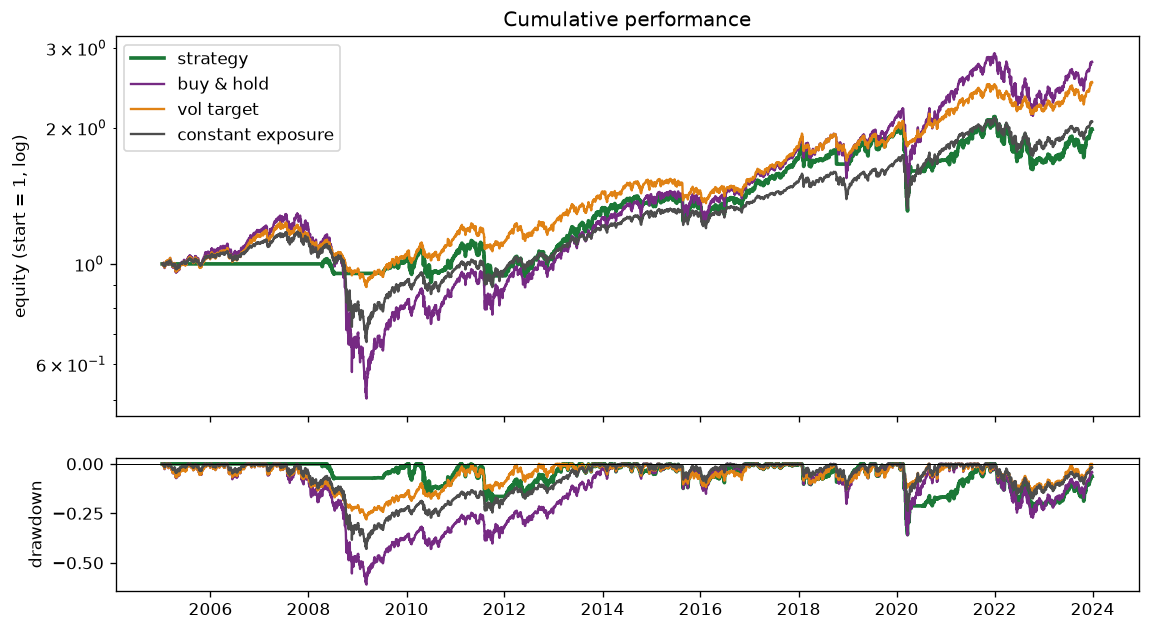
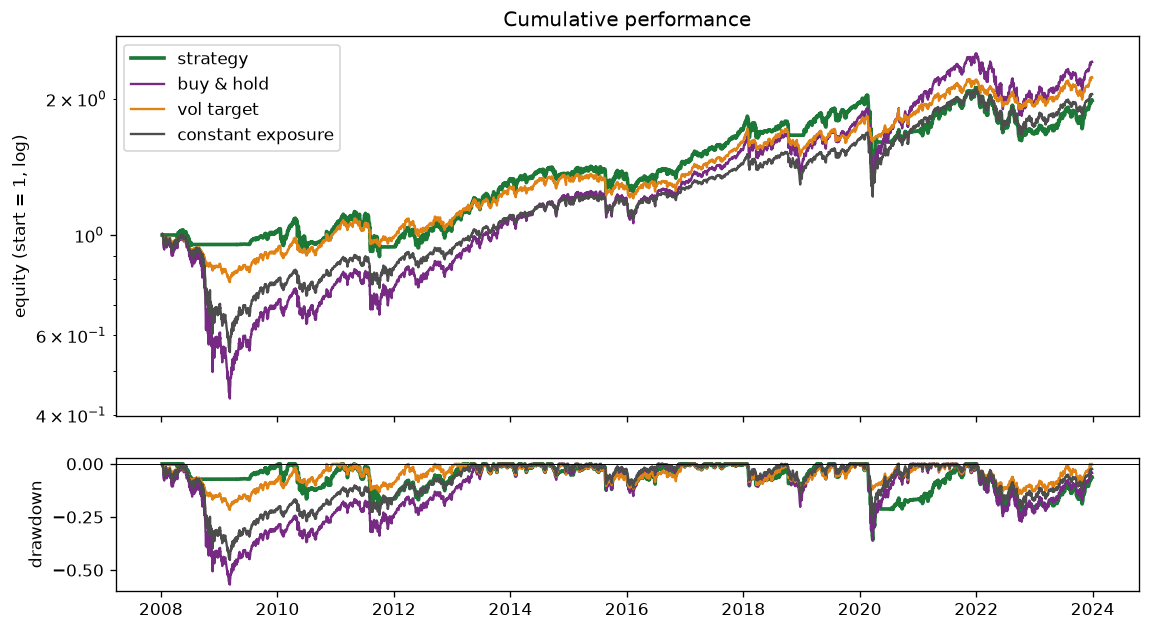
Evaluate the walk-forward comparison from the first refit date; retitle README
Compute the strategy and all three benchmarks only from the first refit
date onwards (2008-01-09 for the default US run), so the benchmarks are
no longer credited with the three-year training window in which the
strategy cannot hold a position. The report and the pipeline's return
value state the evaluation period explicitly.

Replace the xfail on the statsmodels cross-check with importorskip, so a
normal run reports a plain pass or skip instead of xpassed.

Retitle the README and refresh every number and the equity-curve figure
from a new end-to-end run; drop the limitation that the evaluation
window change resolves.

diff --git a/scripts/run_analysis.py b/scripts/run_analysis.py
@@ -135,11 +135,15 @@ def run_pipeline(
 ) -> dict:
     """Run steps 2-7 on an already-built database. Deterministic given ``seed``.
 
+    The walk-forward comparison (strategy and all benchmarks) is evaluated only
+    from the first refit date onwards, i.e. from observation ``train_window``.
+
     Returns
     -------
     dict
         ``summary_table`` (the strategy-vs-benchmark comparison), ``bic`` (dict
-        K -> BIC), ``chain`` (analytics dict), and ``model`` (the fitted HMM).
+        K -> BIC), ``chain`` (analytics dict), ``model`` (the fitted HMM), and
+        ``eval_period`` (``(first_date, last_date, n_obs)`` of the comparison).
     """
     feats = engineer_features(db_path, market=market, vol_window=vol_window, z_window=z_window)
     log_returns = feats["log_return"].to_numpy()
@@ -173,11 +177,21 @@ def run_pipeline(
         refit_every=refit_every, n_init=n_init, random_state=seed,
     )
     prob_cols = [f"p_state_{k}" for k in range(n_states)]
-    strat = regime_strategy(feats, wf[prob_cols], mode="probability")
+    # Fair comparison: evaluate the strategy AND every benchmark only from the
+    # first refit date onwards. Before that date the strategy cannot hold a
+    # position (no model has been fitted yet), so including the warm-up would
+    # credit the benchmarks with a period in which the strategy is not allowed
+    # to compete. All rolling features are causal, so slicing rows is enough.
+    eval_start = train_window
+    eval_feats = feats.iloc[eval_start:]
+    eval_returns = log_returns[eval_start:]
+    eval_wf = wf.iloc[eval_start:]
+    strat = regime_strategy(eval_feats, eval_wf[prob_cols], mode="probability")
     bench = benchmarks(
-        log_returns, feats, avg_exposure=float(strat["position"].mean())
+        eval_returns, eval_feats, avg_exposure=float(strat["position"].mean())
     )
     table = compare(strat, bench, periods_per_year=periods_per_year)
+    eval_period = (eval_feats.index.min(), eval_feats.index.max(), len(eval_feats))
 
     # 6. figures + results CSV
     outdir = Path(outdir)
@@ -207,7 +221,7 @@ def run_pipeline(
                     "vol target": bench["vol_target"].to_numpy(),
                     "constant exposure": bench["constant_exposure"].to_numpy(),
                 },
-                dates=wf.index.to_numpy(),
+                dates=eval_wf.index.to_numpy(),
             ),
             figdir / "equity_curves.png",
         )
@@ -217,10 +231,18 @@ def run_pipeline(
         )
 
     # 7. report
-    report = format_report(market, feats, model, chain_stats, bic, best_k, table)
+    report = format_report(
+        market, feats, model, chain_stats, bic, best_k, table, eval_period
+    )
     logger.info("\n%s", report)
 
-    return {"summary_table": table, "bic": bic, "chain": chain_stats, "model": model}
+    return {
+        "summary_table": table,
+        "bic": bic,
+        "chain": chain_stats,
+        "model": model,
+        "eval_period": eval_period,
+    }
 
 
 def _save(fig, path: Path) -> None:
@@ -228,7 +250,7 @@ def _save(fig, path: Path) -> None:
     plt.close(fig)
 
 
-def format_report(market, feats, model, chain_stats, bic, best_k, table) -> str:
+def format_report(market, feats, model, chain_stats, bic, best_k, table, eval_period) -> str:
     """A short, plain-text summary of the run."""
     lines = [
         "=" * 70,
@@ -252,7 +274,9 @@ def format_report(market, feats, model, chain_stats, bic, best_k, table) -> str:
         "BIC by K: " + ", ".join(f"K={k}:{v:.0f}" for k, v in bic.items())
         + f"  => selects K={best_k}",
         "",
-        "Walk-forward strategy vs benchmarks (net of costs):",
+        "Walk-forward strategy vs benchmarks (net of costs), evaluated from the",
+        f"first refit date: {eval_period[0]} .. {eval_period[1]} "
+        f"({eval_period[2]} observations):",
     ]
     for col in table.columns:
         row = table[col]

diff --git a/tests/test_estimation.py b/tests/test_estimation.py
@@ -126,9 +126,8 @@ def test_variance_floor_prevents_blowup():
 # --------------------------------------------------------------------------- #
 # cross-check
 # --------------------------------------------------------------------------- #
-@pytest.mark.xfail(raises=ImportError, reason="statsmodels not installed")
 def test_cross_check_loglik_vs_statsmodels():
-    import statsmodels.api as sm
+    sm = pytest.importorskip("statsmodels.api")
 
     x, _ = _simulate(
         4000, [0.0005, -0.001], [0.008, 0.025], [[0.98, 0.02], [0.06, 0.94]], seed=5

diff --git a/README.md b/README.md
@@ -1,14 +1,14 @@
-# regime_switching
+# Market regime detection with a hidden Markov model
 
 [![CI](https://github.com/tommasopongiluppi/regime-switching-hmm/actions/workflows/ci.yml/badge.svg)](https://github.com/tommasopongiluppi/regime-switching-hmm/actions/workflows/ci.yml)
 
-Markov regime-switching analysis of daily equity index returns with a Gaussian hidden Markov model, implemented from scratch in NumPy and SciPy.
+Markov regime-switching analysis of daily equity index returns with a Gaussian hidden Markov model, implemented from scratch in NumPy and SciPy. The Python package is `regime_switching`.
 
 ## Summary
 
 This project fits a two-state Gaussian hidden Markov model (HMM) to daily log returns of the S&P 500 and asks two questions: what regimes does the model find, and does knowing the regime in real time help a simple trading rule. The forward-backward recursions, Viterbi decoding, Baum-Welch estimation and Markov chain analytics are written in NumPy and SciPy. No HMM library is used inside the package. A test suite checks the inference code against brute-force enumeration of every state path, and checks the estimator against simulated data with known parameters and against statsmodels.
 
-On 4,778 trading days from 2005-01-06 to 2023-12-29 the model separates a calm regime (daily standard deviation 0.0067, positive mean) from a turbulent one (daily standard deviation 0.0206, negative mean). In a walk-forward backtest, a rule that scales exposure by the filtered probability of the calm regime earns a Sharpe ratio of 0.34 net of costs, against 0.53 for a volatility-targeting benchmark and 0.38 for buy and hold. None of the Sharpe differences is statistically distinguishable from zero at conventional levels. On this sample the regime model does not add anything over inverse-volatility scaling, and that is the result reported here.
+On 4,778 trading days from 2005-01-06 to 2023-12-29 the model separates a calm regime (daily standard deviation 0.0067, positive mean) from a turbulent one (daily standard deviation 0.0206, negative mean). In a walk-forward backtest evaluated from 2008-01-09 onwards, a rule that scales exposure by the filtered probability of the calm regime earns a Sharpe ratio of 0.37 net of costs, against 0.54 for a volatility-targeting benchmark and 0.37 for buy and hold. None of the Sharpe differences is statistically distinguishable from zero at conventional levels. On this sample the regime model does not add anything over inverse-volatility scaling, and that is the result reported here.
 
 ## Model
 
@@ -57,7 +57,7 @@ Prices come from Yahoo Finance through yfinance and are cached to parquet per ti
 
 The backtest refits the model on an expanding window every 63 trading days, starting once 756 observations (about three years) are available, which gave 64 refits here. At each refit the filtered probability at the last available close is held fixed for the following block. The position applied to the return of day t is the signal formed at the close of day t - 1. This one-day shift is enforced by an assertion in the code, and a test checks that the position column equals the lagged signal exactly. Exposure equals the held probability of the calm regime, capped at one, and transaction costs of 5 basis points are charged on every unit of turnover.
 
-Three benchmarks are computed net of the same costs: buy and hold; volatility targeting, where exposure is 10% annualised divided by trailing 21-day realised volatility, capped at one and lagged one day; and a constant exposure equal to the strategy's average exposure, which separates the timing of the strategy from its average leverage. The comparison table reports standard performance statistics and the Jobson-Korkie test with Memmel's correction for the difference between the strategy's Sharpe ratio and each benchmark's. That test accounts for the correlation between the two return series.
+Three benchmarks are computed net of the same costs: buy and hold; volatility targeting, where exposure is 10% annualised divided by trailing 21-day realised volatility, capped at one and lagged one day; and a constant exposure equal to the strategy's average exposure, which separates the timing of the strategy from its average leverage. The comparison table reports standard performance statistics and the Jobson-Korkie test with Memmel's correction for the difference between the strategy's Sharpe ratio and each benchmark's. That test accounts for the correlation between the two return series. The strategy and all three benchmarks are evaluated over the same window, from the first refit date onwards, so the benchmarks are not credited with the warm-up period in which the strategy cannot yet hold a position.
 
 ## Verification
 
@@ -115,7 +115,7 @@ Four long-running tests (the three heaviest estimation tests and the end-to-end 
 
 ## Results
 
-All numbers below come from one run of `scripts/run_analysis.py` on 2026-11-03 with default settings: S&P 500 (^GSPC) and VIX (^VIX) from Yahoo Finance, 2005-01-06 to 2023-12-29, 4,778 daily log returns after the feature warm-up, seed 20260721, 10 EM starts per fit. The run took 49 minutes on a laptop. Yahoo may revise historical prices, so a later download can differ slightly.
+All numbers below come from one run of `scripts/run_analysis.py` on 2026-11-03 with default settings: S&P 500 (^GSPC) and VIX (^VIX) from Yahoo Finance, 2005-01-06 to 2023-12-29, 4,778 daily log returns after the feature warm-up, seed 20260721, 10 EM starts per fit. The run took 59 minutes on a laptop. Yahoo may revise historical prices, so a later download can differ slightly.
 
 ### Fitted two-state model
 
@@ -151,41 +151,41 @@ The figure shows the S&P 500 level with red shading whose opacity is the filtere
 
 ### Walk-forward results versus the benchmarks
 
-All series are net of 5 basis points per unit of turnover and cover the full 4,778-day sample. The strategy holds no position during the first 756 days while the first training window accumulates. The constant-exposure benchmark is buy and hold scaled to the strategy's average exposure of 0.62, so its Sharpe ratio equals buy and hold's by construction.
+All four series are net of 5 basis points per unit of turnover and are evaluated over the same period, from the first refit date 2008-01-09 to 2023-12-29 (4,022 trading days). The 756 days before the first refit are the training window for the first model fit and are excluded for every series. The constant-exposure benchmark is buy and hold scaled to the strategy's average exposure of 0.74, so its Sharpe ratio equals buy and hold's by construction.
 
 | | Strategy | Buy and hold | Vol target | Constant exposure |
 | --- | ---: | ---: | ---: | ---: |
-| CAGR | +3.68% | +5.57% | +4.99% | +3.90% |
-| Annualised vol | 13.0% | 19.5% | 10.2% | 12.1% |
-| Sharpe | 0.34 | 0.38 | 0.53 | 0.38 |
-| Sortino | 0.46 | 0.52 | 0.72 | 0.52 |
-| Max drawdown | -35.7% | -61.0% | -28.1% | -43.0% |
-| Calmar | 0.10 | 0.09 | 0.18 | 0.09 |
-| Hit rate | 45.5% | 54.4% | 54.2% | 54.4% |
-| Skew | -1.13 | -0.52 | -0.63 | -0.52 |
-| Excess kurtosis | 30.7 | 12.9 | 2.1 | 12.9 |
-| JK-Memmel z vs strategy | | -0.19 | -1.10 | -0.19 |
-| JK-Memmel p-value | | 0.848 | 0.270 | 0.848 |
+| CAGR | +4.39% | +5.67% | +5.15% | +4.59% |
+| Annualised vol | 14.2% | 20.5% | 10.2% | 15.2% |
+| Sharpe | 0.37 | 0.37 | 0.54 | 0.37 |
+| Sortino | 0.51 | 0.51 | 0.74 | 0.51 |
+| Max drawdown | -35.7% | -56.8% | -21.7% | -45.2% |
+| Calmar | 0.12 | 0.10 | 0.24 | 0.10 |
+| Hit rate | 54.0% | 54.1% | 53.9% | 54.1% |
+| Skew | -1.05 | -0.52 | -0.64 | -0.52 |
+| Excess kurtosis | 25.4 | 12.2 | 2.2 | 12.2 |
+| JK-Memmel z vs strategy | | +0.01 | -1.02 | +0.01 |
+| JK-Memmel p-value | | 0.990 | 0.307 | 0.990 |
 
 ![Cumulative performance and drawdowns of the strategy and the three benchmarks](docs/us_equity_curves.png)
 
 What the table says:
 
-- The volatility-targeting benchmark has the highest Sharpe ratio (0.53) and the smallest maximum drawdown (-28.1%). The regime strategy has the lowest Sharpe ratio of the four (0.34).
-- The strategy's drawdown (-35.7%) is smaller than buy and hold's (-61.0%) and the constant-exposure benchmark's (-43.0%), because it was mostly out of the market in 2008 and 2009. The equity figure shows it flat until early 2008 and then largely flat through the crash.
-- The Sharpe difference against volatility targeting has a p-value of 0.270 and against buy and hold 0.848. Neither comes close to rejecting equal Sharpe ratios, so the honest statement is that the strategy is not distinguishable from the benchmarks on this sample, and the point estimates favour volatility targeting.
-- The strategy's excess kurtosis (30.7) is far above the benchmarks'. The equity figure shows why: it was largely invested going into the February to March 2020 fall and took most of that loss in a few days, while the volatility-targeting benchmark cut exposure as realised volatility rose and lost less.
+- The volatility-targeting benchmark has the highest Sharpe ratio (0.54) and the smallest maximum drawdown (-21.7%). The regime strategy's Sharpe ratio (0.37) is level with buy and hold and constant exposure (0.37); the Jobson-Korkie-Memmel test against buy and hold gives z = +0.01, p = 0.990.
+- The Sharpe difference against volatility targeting has p = 0.307. Neither comparison comes close to rejecting equal Sharpe ratios, so the strategy is not distinguishable from the benchmarks on this sample, and the point estimates favour volatility targeting.
+- On compounded return the strategy (+4.39% a year) is the lowest of the four over this window, below constant exposure (+4.59%) at the same average exposure of 0.74. Its timing cost return relative to simply holding that exposure.
+- The strategy's maximum drawdown (-35.7%) is smaller than buy and hold's (-56.8%) and constant exposure's (-45.2%). The first refit, in January 2008, put the probability of the calm regime at 0.001, so the strategy was essentially out of the market through the 2008 to 2009 fall. The equity figure shows its line flat for most of 2008 and 2009 while buy and hold loses more than half.
+- The strategy's own worst drawdown came in 2020, not 2009. Its excess kurtosis (25.4) is far above the benchmarks' because it was largely invested going into the February to March 2020 fall and took most of that loss in a few days, while the volatility-targeting benchmark cut exposure as realised volatility rose and lost less.
 
 ## Limitations
 
 - Price indices exclude dividends. The S&P 500 price index understates the return to holding by roughly 1.5 percentage points a year, which flatters every strategy measured against buy and hold. The European configuration (EURO STOXX 50, VSTOXX) is affected more and is not reported here.
-- The comparison covers the full sample, including the first 756 days in which the strategy holds nothing while the benchmarks are invested. This lowers the strategy's CAGR relative to the benchmarks. Restricting all series to the period after the first refit would be the fairer comparison and is not done in the current pipeline.
 - Returns are modelled as Gaussian within each state. Daily returns have heavier tails than a two-component Gaussian mixture captures, and the BIC preference for K = 4 reflects that.
 - The strategy return is computed as position times the daily log return. For a position between zero and one this is a close approximation to the simple return but not identical.
 - Costs are a flat 5 basis points per unit of turnover. There is no slippage model, no financing cost and no borrowing constraint beyond a cap of one on exposure.
 - The Sharpe standard error assumes independent returns and the Jobson-Korkie-Memmel test is asymptotic. Both understate uncertainty when returns are autocorrelated or fat-tailed.
 - One market, one asset, one set of default parameters. No parameter search was run, which avoids selection bias but also means the result is a single configuration.
-- The time loop in the forward and backward passes is Python, vectorised only across states. The full pipeline took 49 minutes, dominated by the walk-forward refits.
+- The time loop in the forward and backward passes is Python, vectorised only across states. The full pipeline took 59 minutes, dominated by the walk-forward refits.
 - The data come from Yahoo Finance and are not an audited source.
 
 ## How to reproduce
@@ -211,12 +211,12 @@ Outputs:
 - `data/us.duckdb` and the parquet cache.
 - A plain-text report on standard output.
 
-The run is deterministic given the seed (`--seed`, default 20260721). It took 49 minutes here. For an offline run that exercises the whole pipeline on a simulated two-regime series, pass `--synthetic`. `scripts/compare_markets.py` runs both market configurations and `scripts/study_chains.py` prints worked Markov-chain examples.
+The run is deterministic given the seed (`--seed`, default 20260721). It took 59 minutes here. For an offline run that exercises the whole pipeline on a simulated two-regime series, pass `--synthetic`. `scripts/compare_markets.py` runs both market configurations and `scripts/study_chains.py` prints worked Markov-chain examples.
 
 Tests:
 
 ```bash
-pytest                    # default: 49 passed, 1 xpassed, 5 deselected, 76 s here
+pytest                    # default: 50 passed, 5 deselected, 85 s here
 pytest -m slow            # the four long tests, about 35 minutes
 pytest -m "not network"   # fast and slow together
 ```
